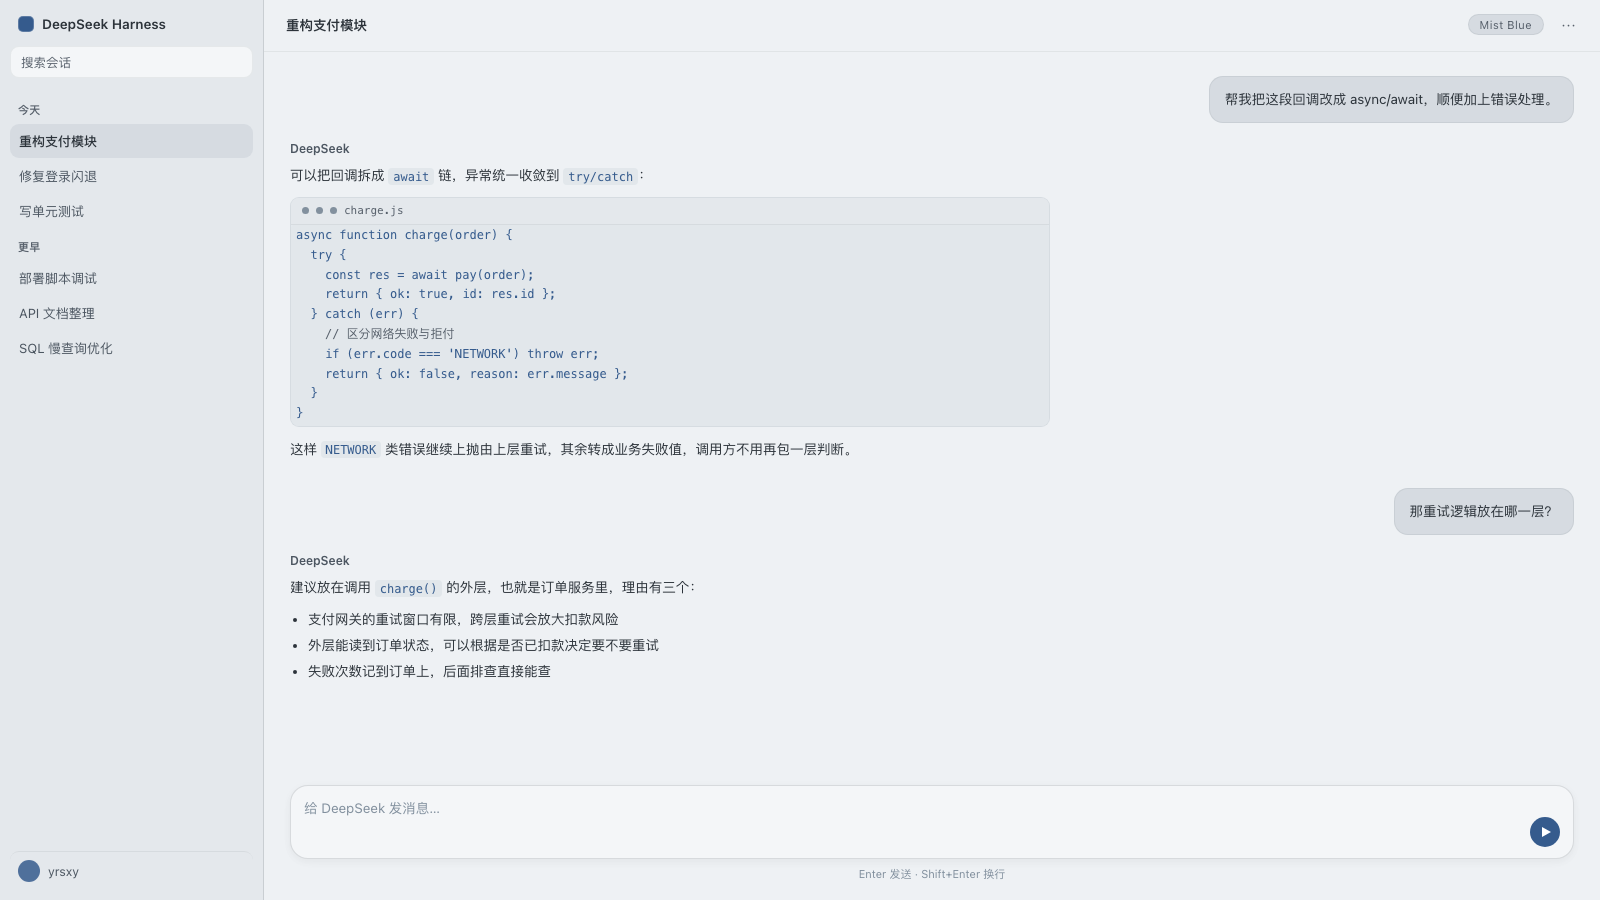
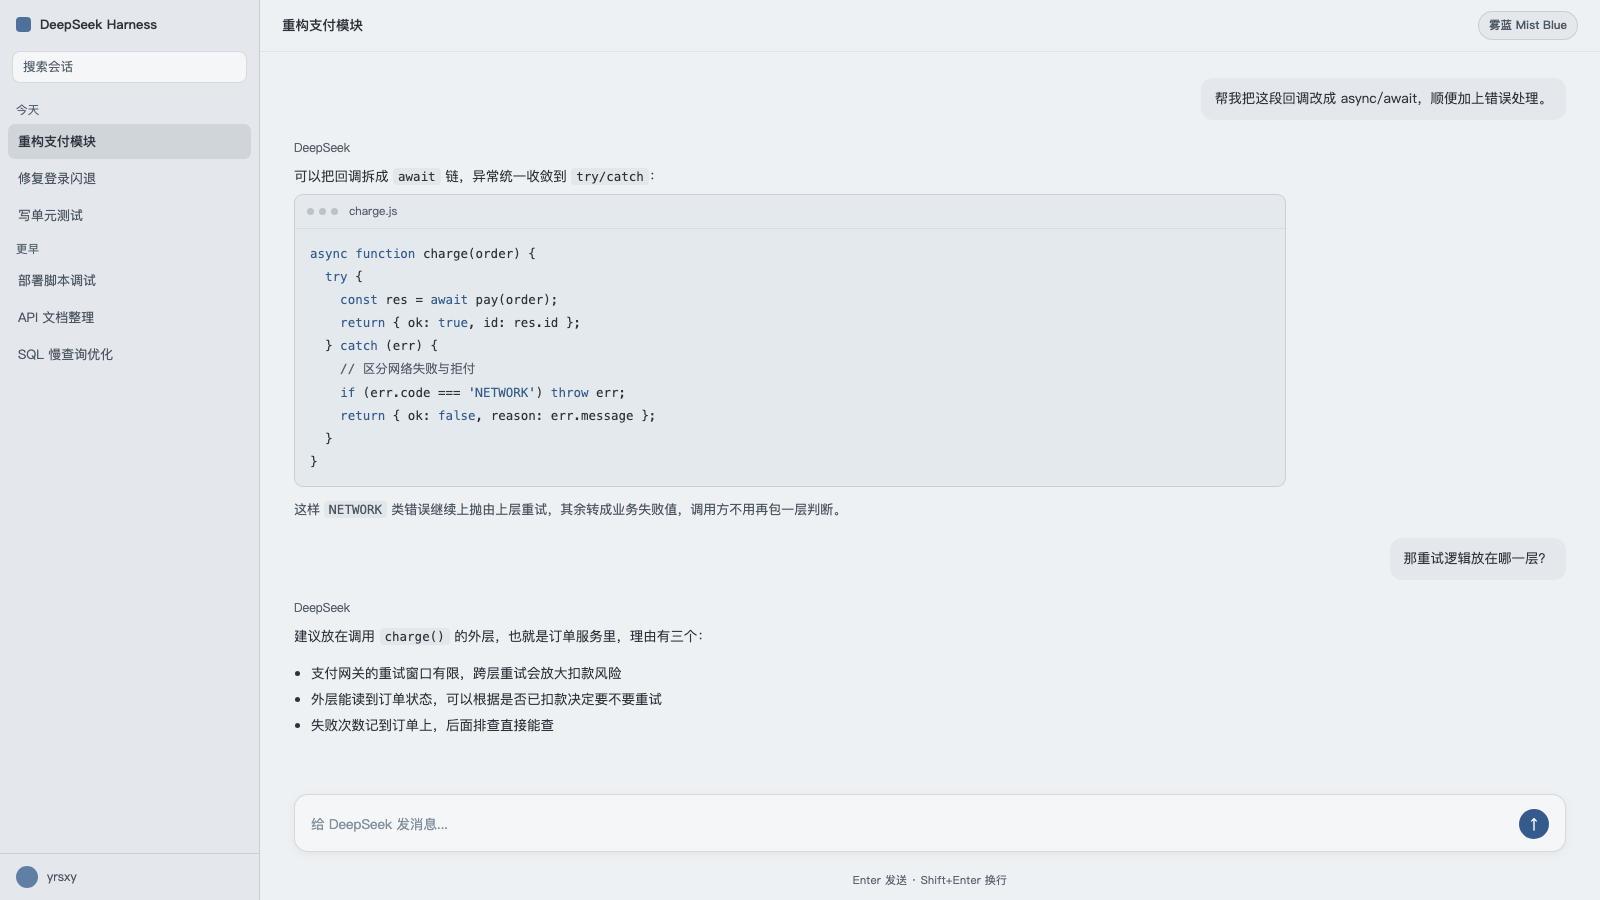
feat(preview): 预览收窄为书页/橄榄静绿/雾蓝三套，浅深各一张
- 截图改为 3 浅 + 3 深，深色在上、浅色在下（README 与 screenshots.json 同步调整）
- 深色取色相跨度最大的三套，去掉暖纸与茶褐的预览图
- 市场条目描述补充「在 设置 → 通用 中切换配色」
- package.json 描述同步

diff --git a/README.md b/README.md
@@ -11,20 +11,18 @@ DSH 护眼配色包 —— 5 套低蓝光配色，通过官方 `ctx.theme.overri
 
 <table>
   <tr>
-    <td align="center"><img src="assets/screenshots/warm-paper.png" width="240"><br><sub>暖纸 Warm Paper</sub></td>
-    <td align="center"><img src="assets/screenshots/old-book.png" width="240"><br><sub>柔褐书页 Old Book</sub></td>
-    <td align="center"><img src="assets/screenshots/quiet-olive.png" width="240"><br><sub>橄榄静绿 Quiet Olive</sub></td>
-    <td align="center"><img src="assets/screenshots/tea-brown.png" width="240"><br><sub>茶褐 Tea Brown</sub></td>
-    <td align="center"><img src="assets/screenshots/mist-blue.png" width="240"><br><sub>雾蓝 Mist Blue</sub></td>
+    <td align="center"><img src="assets/screenshots/dark-old-book.png" width="240"><br><sub>柔褐书页 · 深色</sub></td>
+    <td align="center"><img src="assets/screenshots/dark-quiet-olive.png" width="240"><br><sub>橄榄静绿 · 深色</sub></td>
+    <td align="center"><img src="assets/screenshots/dark-mist-blue.png" width="240"><br><sub>雾蓝 · 深色</sub></td>
   </tr>
   <tr>
-    <td align="center"><img src="assets/screenshots/dark-warm-paper.png" width="240"><br><sub>暖纸 · 深色</sub></td>
-    <td align="center"><img src="assets/screenshots/dark-tea-brown.png" width="240"><br><sub>茶褐 · 深色</sub></td>
-    <td colspan="3"></td>
+    <td align="center"><img src="assets/screenshots/old-book.png" width="240"><br><sub>柔褐书页 Old Book</sub></td>
+    <td align="center"><img src="assets/screenshots/quiet-olive.png" width="240"><br><sub>橄榄静绿 Quiet Olive</sub></td>
+    <td align="center"><img src="assets/screenshots/mist-blue.png" width="240"><br><sub>雾蓝 Mist Blue</sub></td>
   </tr>
 </table>
 
-> 预览图由配色 token 直接渲染。macOS 侧栏为系统原生毛玻璃，实际观感比图中更浅更透。
+> 上排为深色、下排为浅色，每套配色都跟随 DSH 的浅色 / 深色开关。预览图由配色 token 直接渲染；macOS 侧栏为系统原生毛玻璃，实际观感比图中更浅更透。
 
 ## 安装
 
